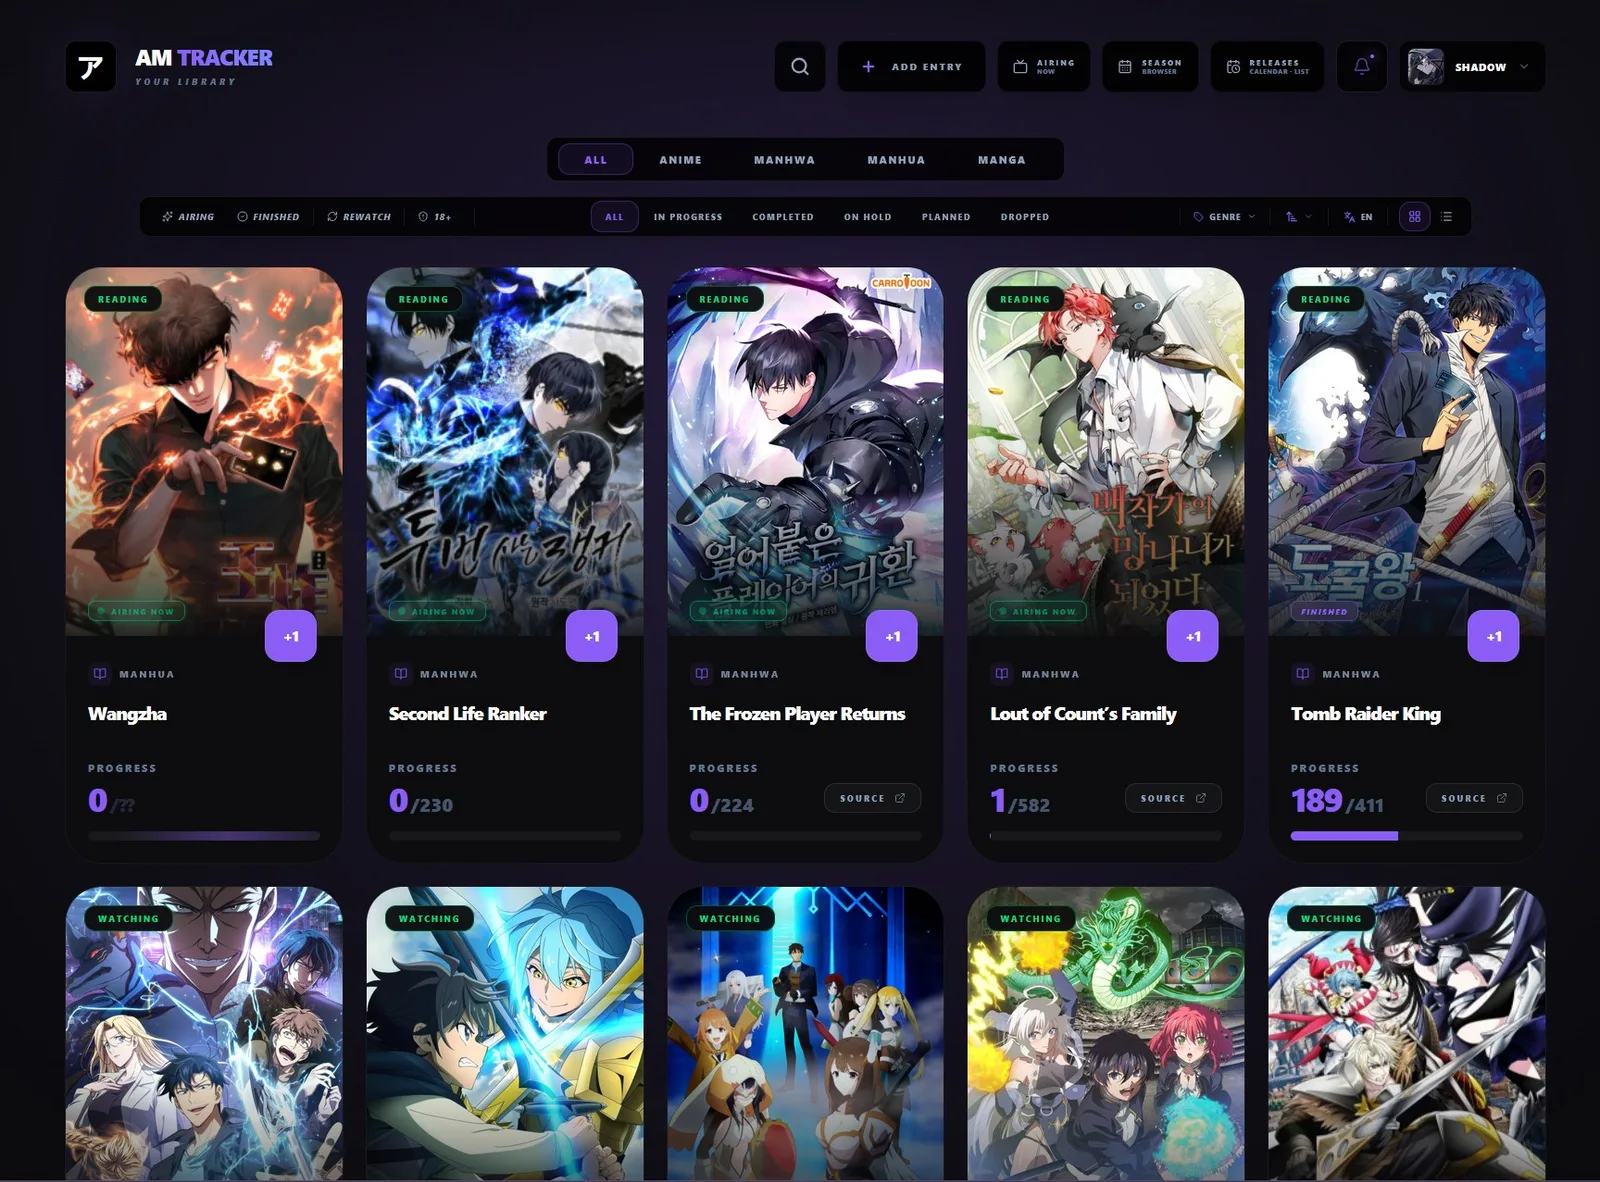
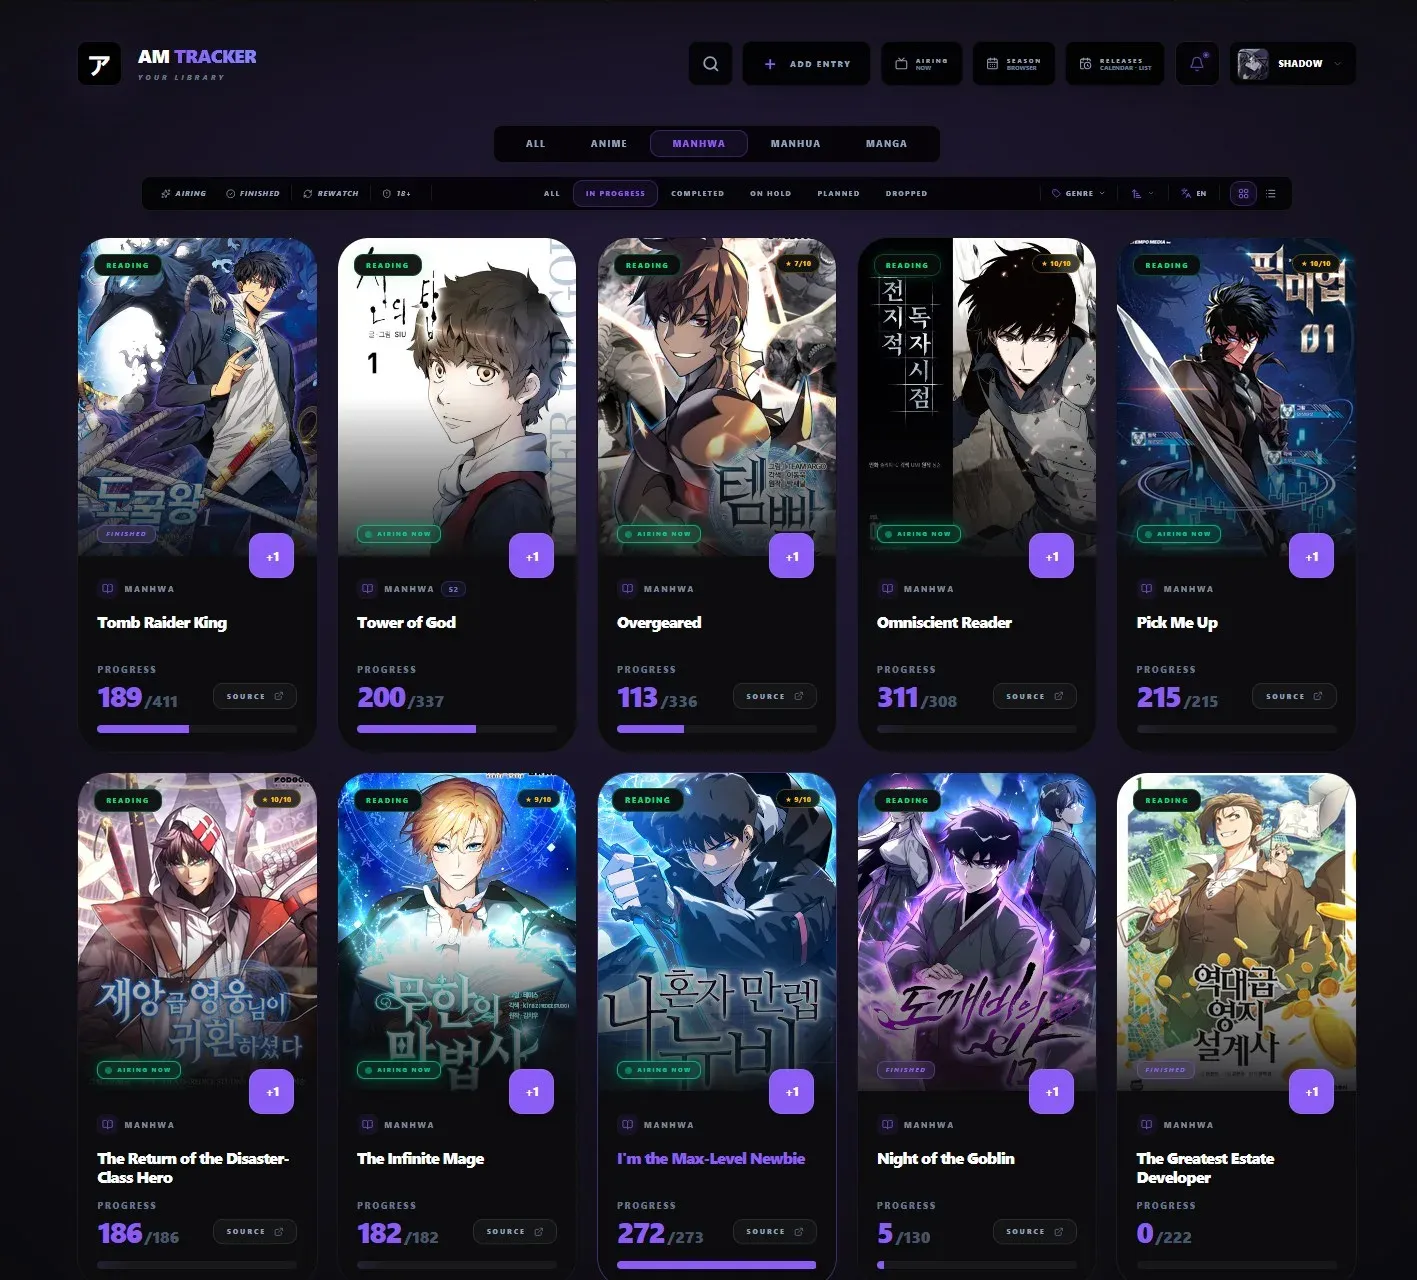
Swap in the newer AM Tracker shot and name the country
The new capture shows the full navigation, the filter bar and cards carrying
ratings and progress, so it says more about the app than the previous one. It
replaces library.webp, which means it lands as the cover, the first gallery
slide, the carousel slide and the resume thumbnail without touching any paths.
Converted to WebP, 396 KB down to 197 KB.

Venthone reads Brussels, Belgium now: the city alone left the country to be
inferred, which is the sort of thing a reader skims past.

diff --git a/src/content/resume.ts b/src/content/resume.ts
@@ -74,7 +74,7 @@ export const sectionLeads: Record<string, Localized> = {
 export const employment: ResumeEntry[] = [
   {
     org: "Venthone (European Commission project)",
-    location: { en: "Hybrid, Brussels", pl: "Hybrydowo, Bruksela" },
+    location: { en: "Hybrid, Brussels, Belgium", pl: "Hybrydowo, Bruksela, Belgia" },
     period: "Jul 2024 to present",
     icon: "institution",
     roles: [
